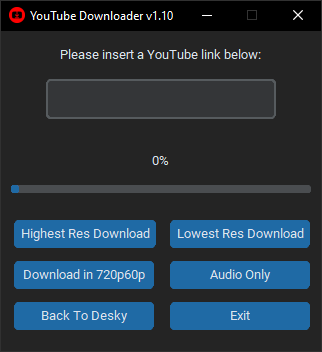
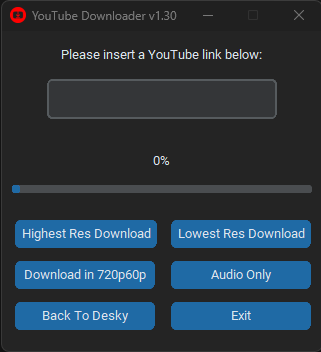
1.30 release, updated assets

diff --git a/README.md b/README.md
@@ -17,7 +17,6 @@
 - [Word2PDF Converter](#word2pdf-converter)
 - [Tock Tick](#tock-tick)
 - [Voice 2 TXT Transcriber](#voice-2-txt-transcriber)
-- [Known Issues](#known-issues)
 
 <h2>Your daily one-stop shop desktop companion with a versatile list of useful tools.</h2>
 
@@ -31,7 +30,7 @@ Desky contains a plenty of mini-applications™ that aims to make your everyday 
 # Daily Sneak Peek:
 
 ## Stay up to date with your day. Currently only shows today's weather for your zipcode, launch will include daily reminders as well as all-time To-Do list.
-## Launch will also include support for intentional cities!
+Support for cities outside the U.S. will be added in a future update.
 
 ![DSP-ss](assets/ss/DSP-ss.png)
 
@@ -41,16 +40,6 @@ Desky contains a plenty of mini-applications™ that aims to make your everyday 
 
 ![DO-ss](assets/ss/DO-ss.png)
 
-
-
-# Youtube Downloader
-## Pretty self explanatory name, it will contain customizable options as far as the downloaded resolution goes.
-
-![YTD-ss](assets/ss/YTD-ss.png)
-
-
-
-
 # Fresh Desktop Check List
 ## Recently reset your desktop or would just want to download the newest versions of these popular free programs? This tool will get you caught up with all the desktop apps that you need!
 
@@ -58,22 +47,34 @@ Desky contains a plenty of mini-applications™ that aims to make your everyday 
 ![FDCL-ss](assets/ss/FDCL-ss.png)
 
 
+# My Notes
 
-# Word2PDF Converter
-## Self explanatory, quick mini-app that converts your word documents to PDF
-![W2PDF-ss](assets/ss/W2PDF-ss.png)
+## Simple note taking application that will be updated with more features regularly in the near future!
+![MN-ss](assets/ss/MN-ss.png)
+
+
+# PC Watcher
+## Think you might be running short on CPU or storage? PC Watcher got you covered!
+
+![PCW-ss](assets/ss/PCW-ss.png)
 
 
 # Tock Tick
 ## 3-in-1 clock related miniapps
 ![TT-ss](assets/ss/TT-ss.png)
+
+# Word2PDF Converter
+## Self explanatory, quick mini-app that converts your word documents to PDF
+![W2PDF-ss](assets/ss/W2PDF-ss.png)
+
 # Voice 2 TXT Transcriber
 ## Transcribe voice messages for you when Windows dictation wouldn't
 ![V2TXT-ss](assets/ss/v2t-ss.png)
-# Known Issues:
 
--Will add edit/remove tasks and reminders in the near future
+# Youtube Downloader
+## Pretty self explanatory name, it will contain customizable options as far as the downloaded resolution goes.
 
+![YTD-ss](assets/ss/YTD-ss.png)
 
 
 [downloads-shield]: https://img.shields.io/github/downloads/ziadh/Desky/total?style=for-the-badge&logo=github
